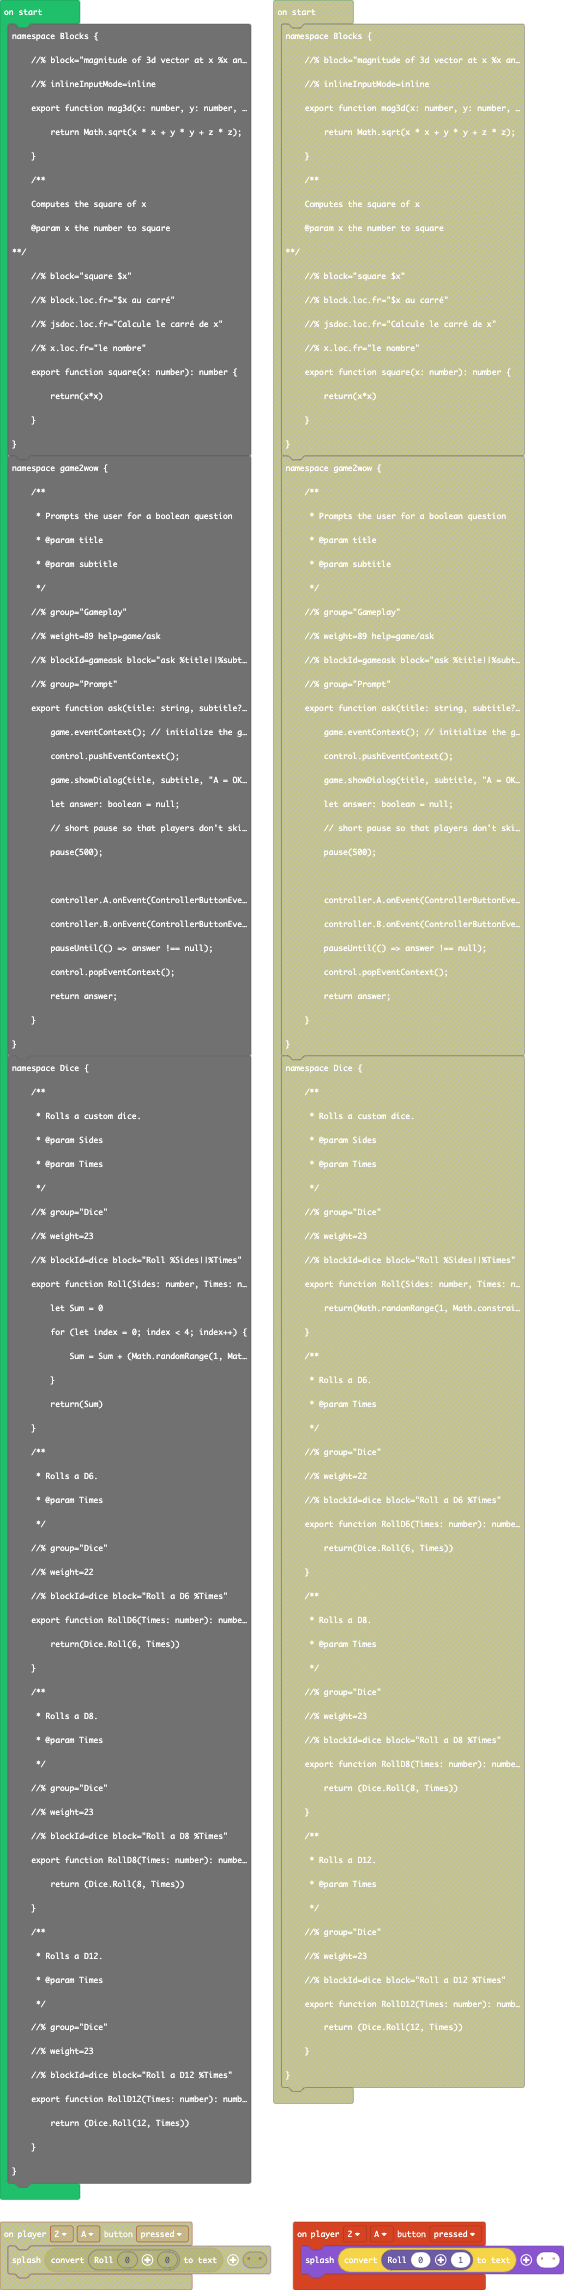
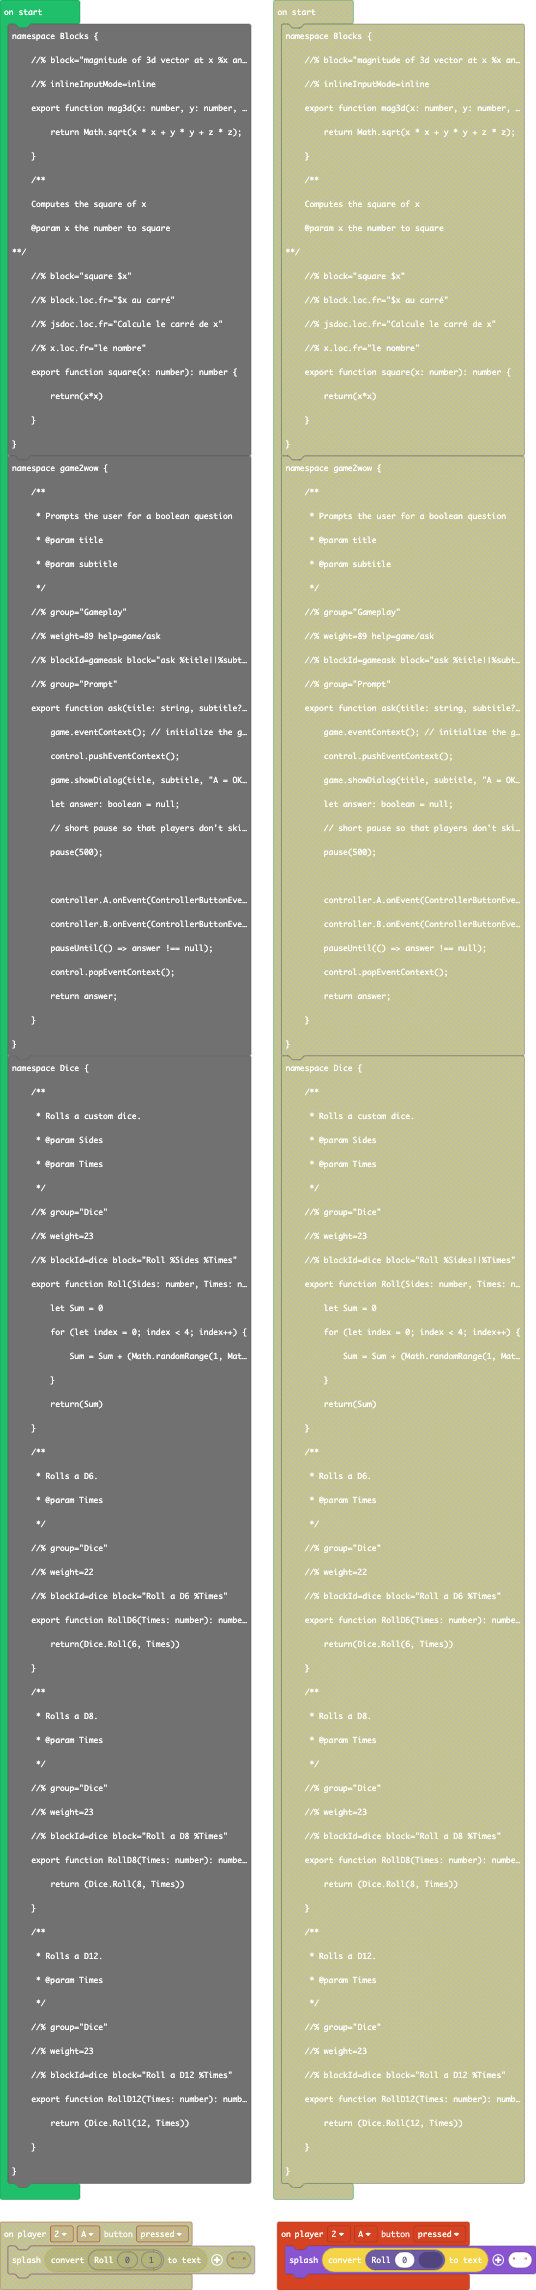
Update main.blocks, main.ts

diff --git a/main.ts b/main.ts
@@ -1,5 +1,5 @@
 controller.player2.onButtonEvent(ControllerButton.A, ControllerButtonEvent.Pressed, function () {
-    game.splash(convertToText(Dice.Roll(0, 1)), "")
+    game.splash(convertToText(Dice.Roll(0, 0)), "")
 })
 namespace Blocks {
     //% block="magnitude of 3d vector at x %x and y %y and z %z"
